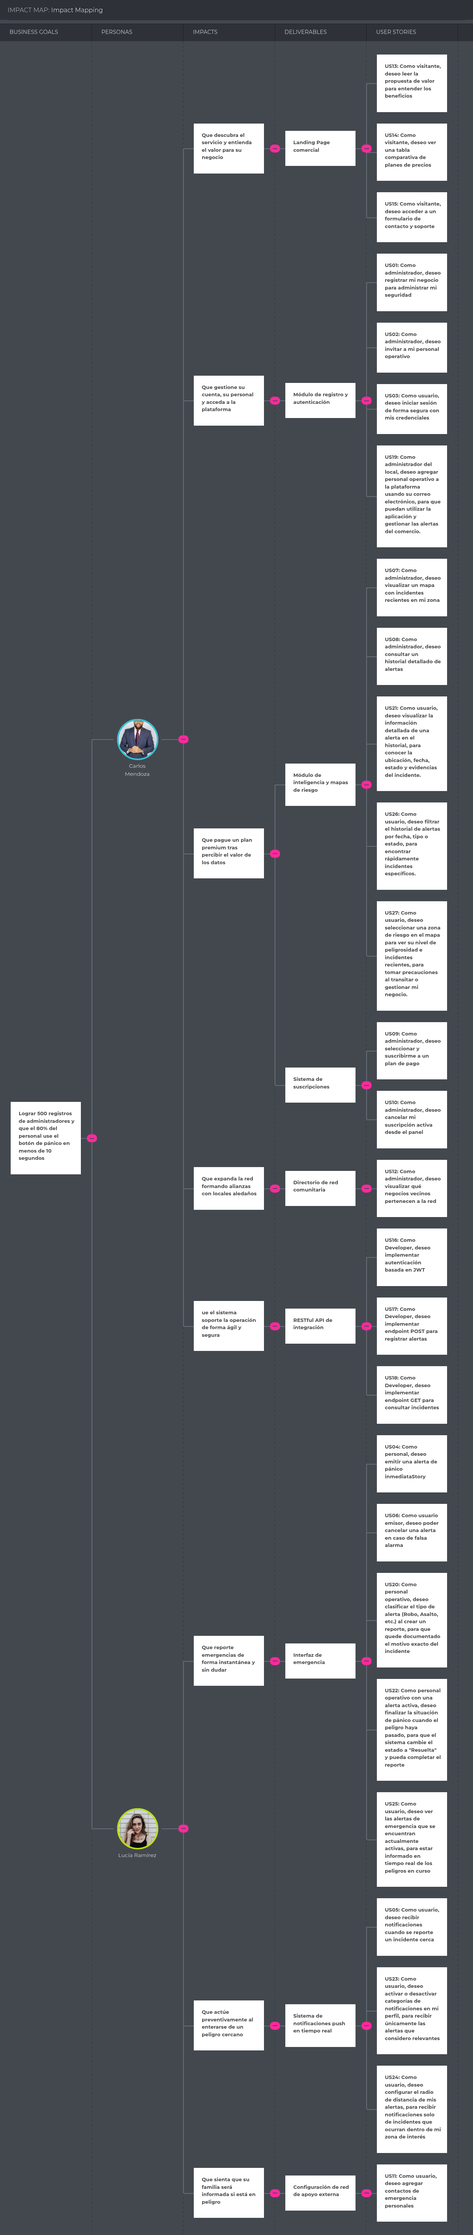
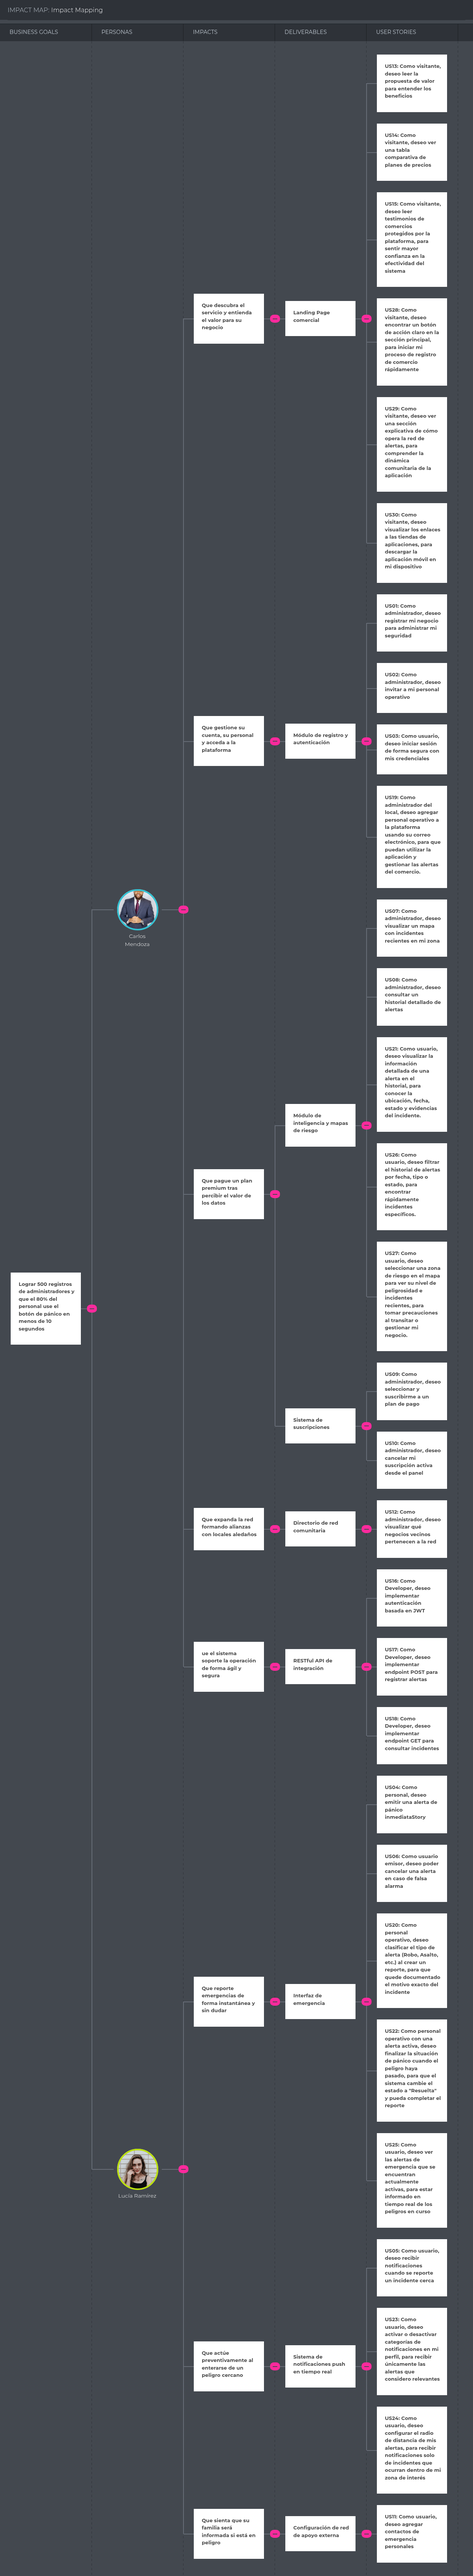
docs: add updated Impact Mapping and separated Product Backlog images

diff --git a/docs/chapter3.md b/docs/chapter3.md
@@ -72,7 +72,9 @@ A continuación se presenta el Product Backlog del proyecto InstAlert, priorizad
 Para la estimación del esfuerzo se ha utilizado la secuencia de Fibonacci (1, 2, 3, 5, 8). La gestión del Product Backlog se lleva a cabo mediante la herramienta **Jira Software**.
 
 <p align="center">
-  <img src="../assets/Chapter3/product_backlog.png" alt="Product Backlog" width="800">
+  <img src="../assets/Chapter3/product_backlog.png" alt="Product Backlog Parte 1" width="800">
+  <br><br>
+  <img src="../assets/Chapter3/product_backlog_2.png" alt="Product Backlog Parte 2" width="800">
   <br><em>Figura 2: Captura del Product Backlog priorizado por valor de negocio</em>
 </p>
 
